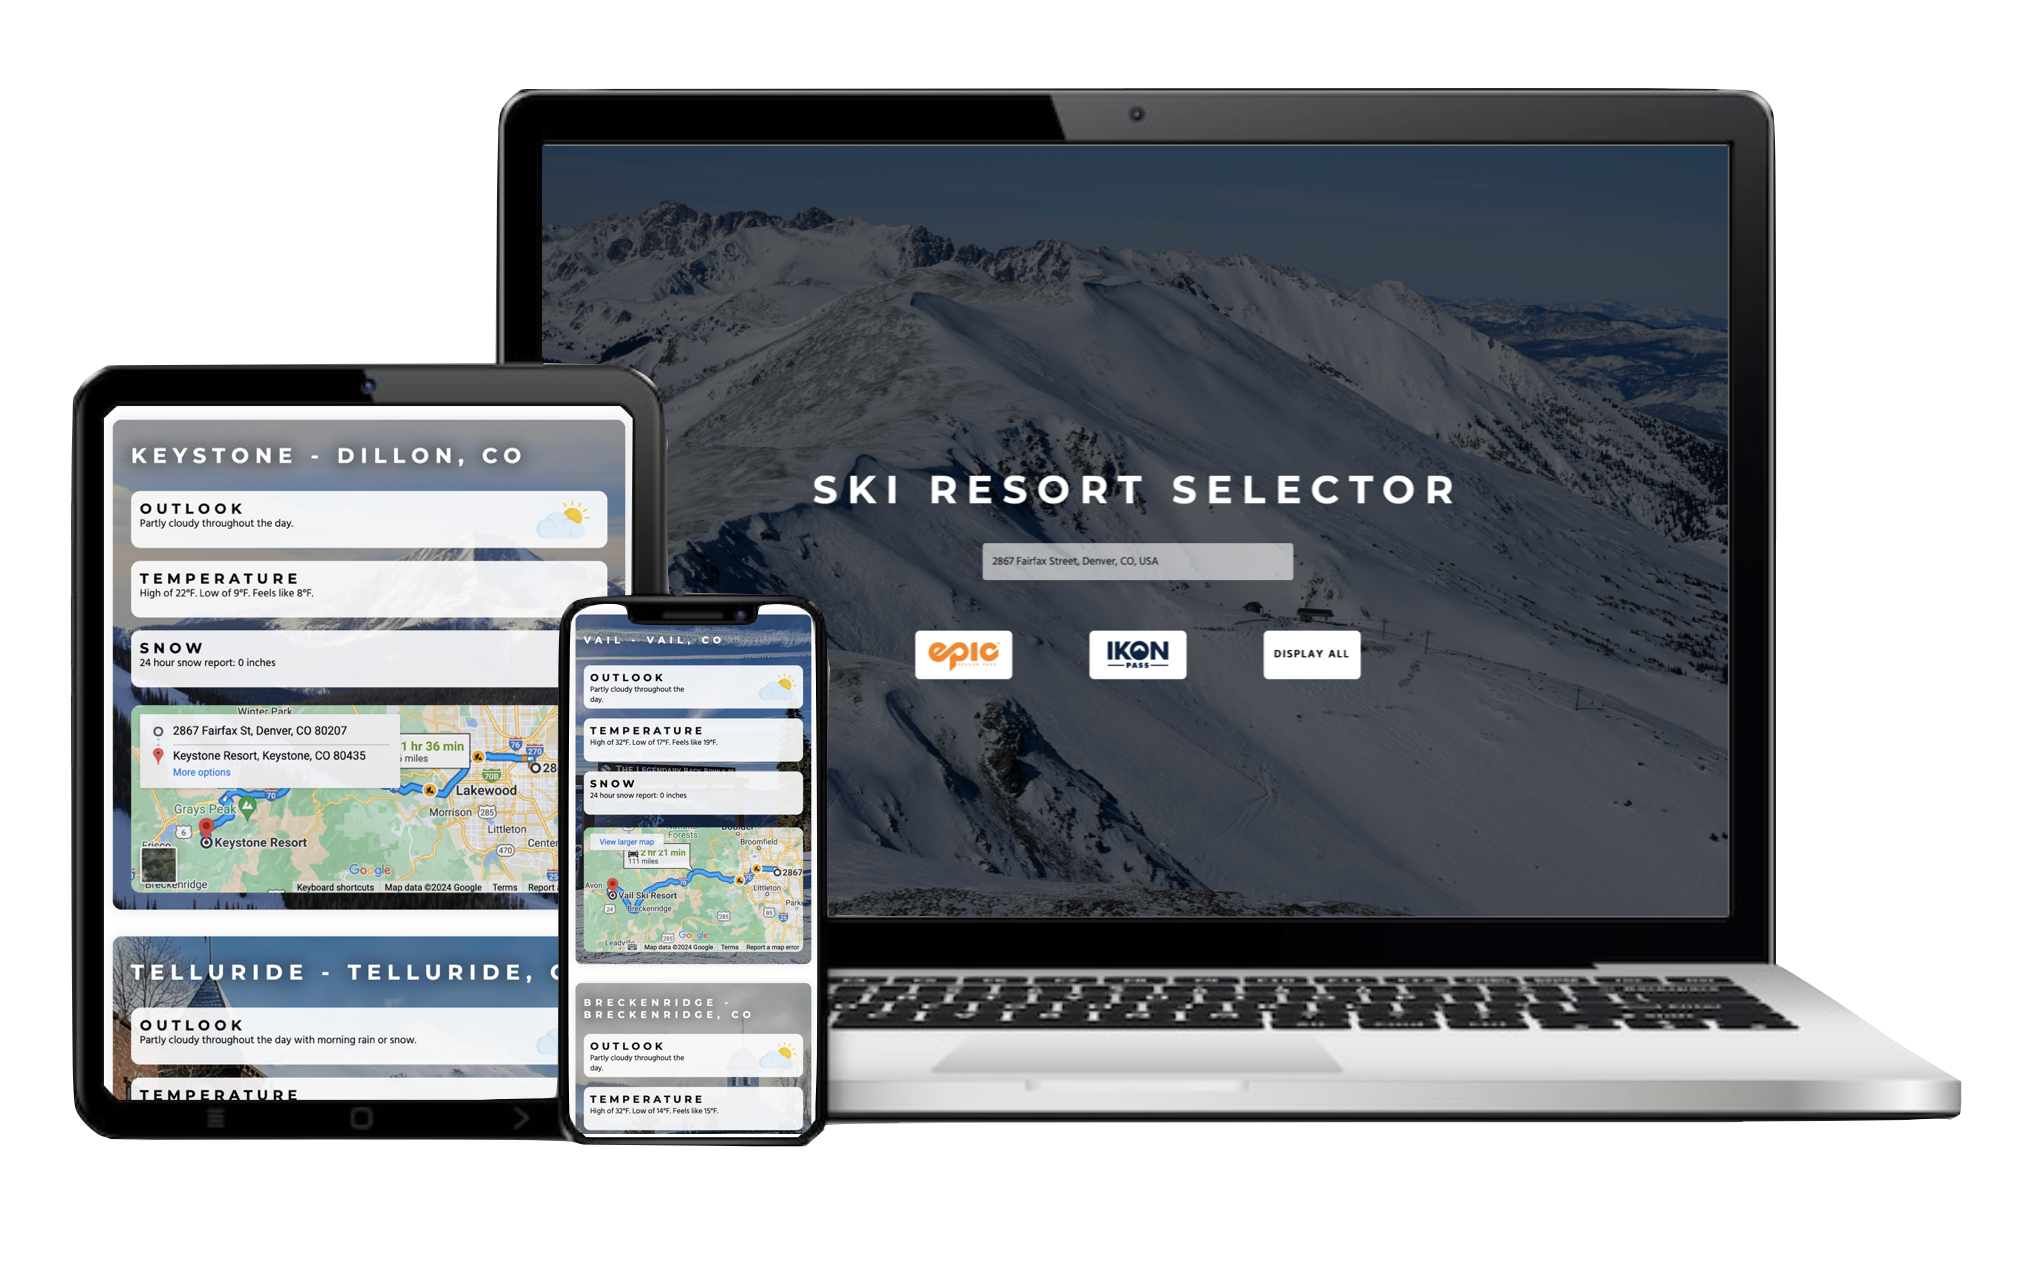
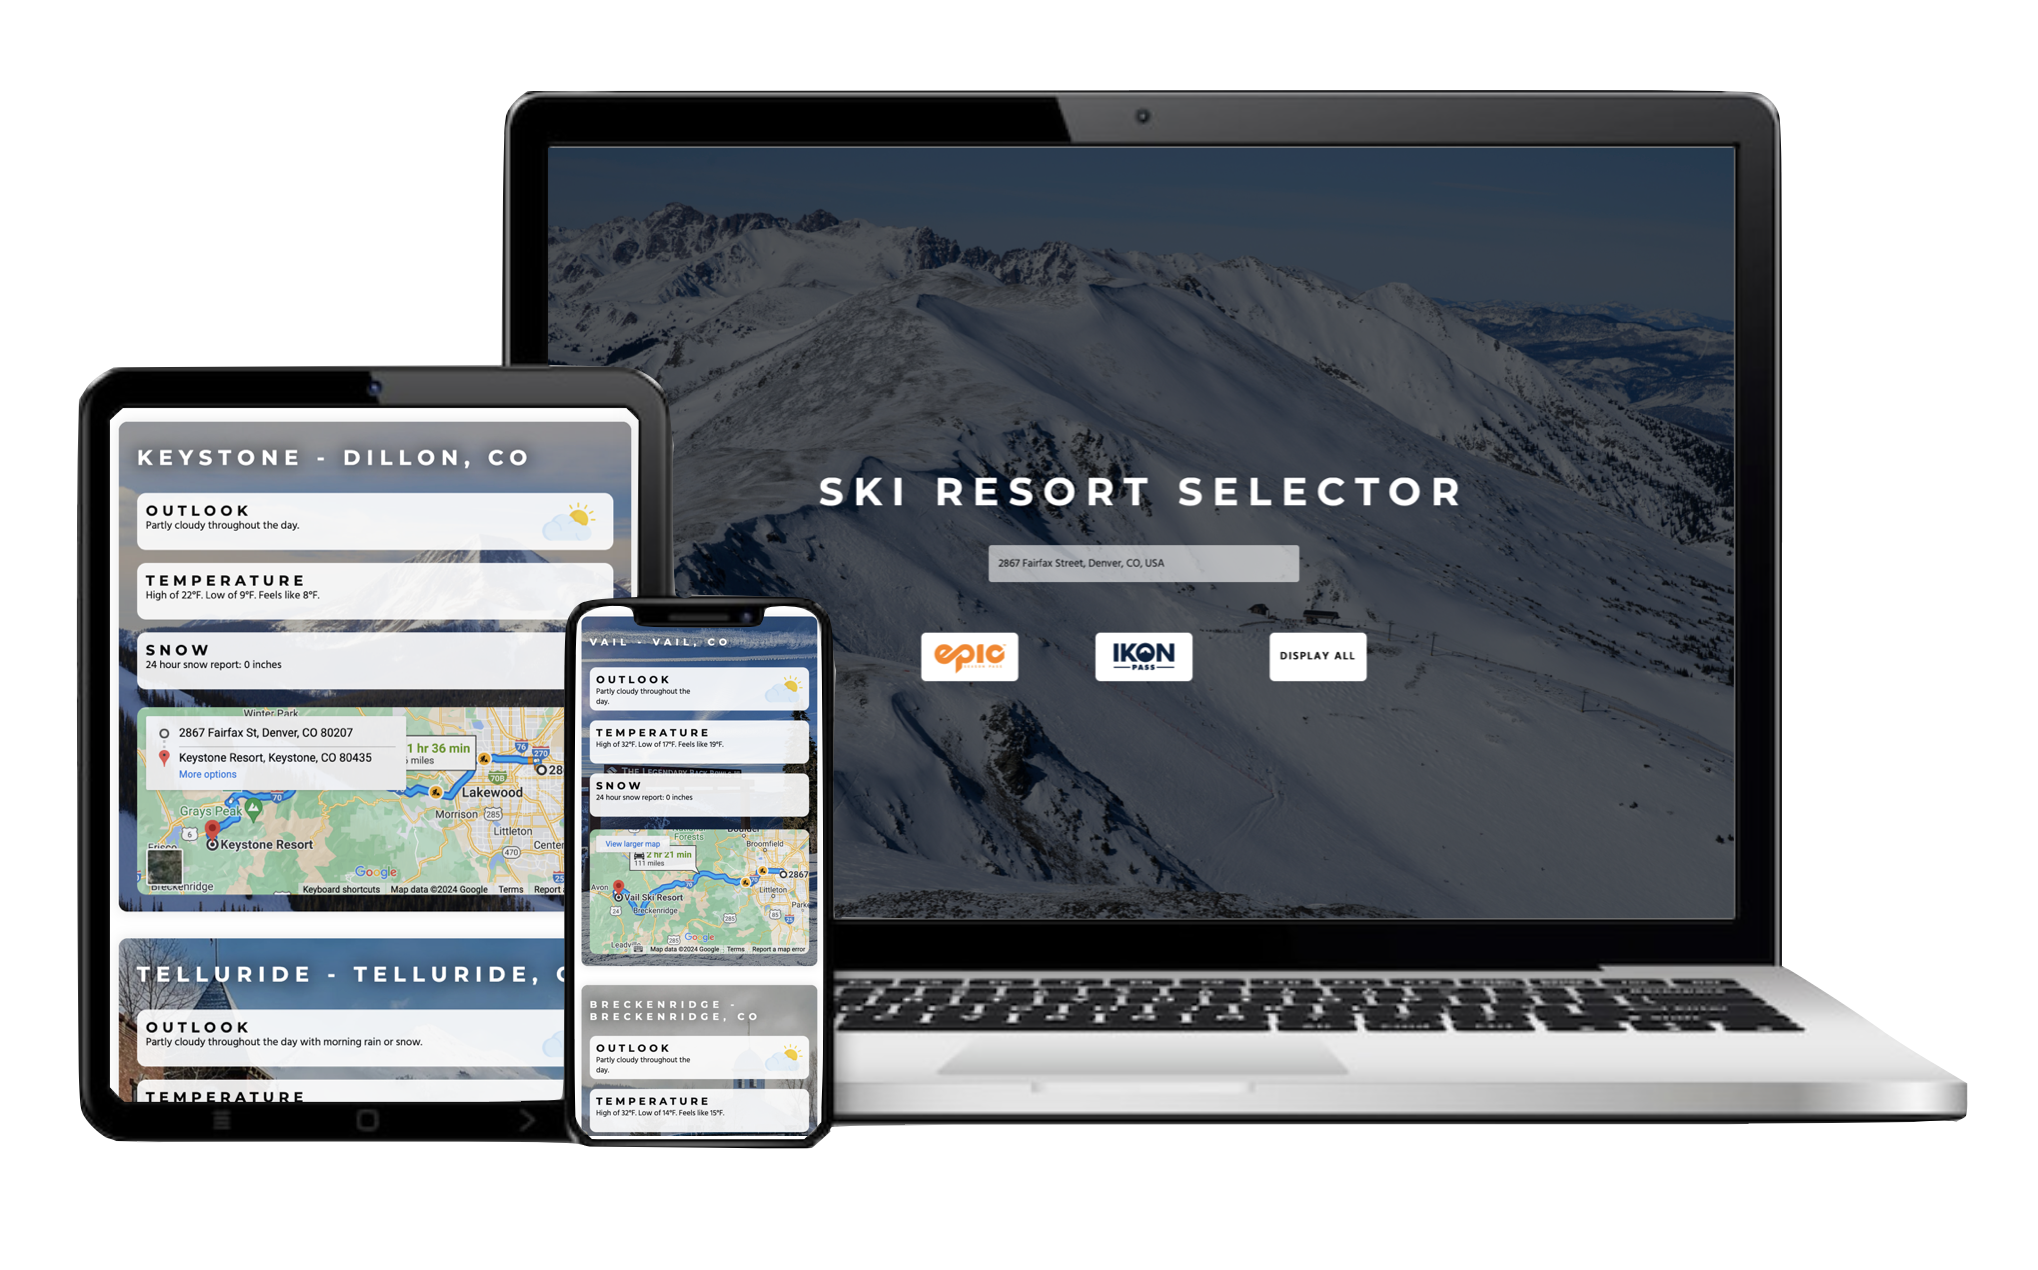
responsive

diff --git a/style.css b/style.css
@@ -21,7 +21,7 @@ h1 {
 }
 
 h2 {
-    font-size: 2em;
+    font-size: 1.4em;
 }
 
 h3 {
@@ -101,7 +101,7 @@ header {
 }
 
 .middle {
-    max-width: 60%;
+    max-width: 70%;
     margin: 0 15px;
 }
 
@@ -170,9 +170,9 @@ button:hover {
 }
 
 .item {
-    min-height: 400px;
+    min-height: 350px;
     width: 20%;
-    margin: 20px;
+    margin: 5px 15px;
 }
 
 .show-img-container {
@@ -192,7 +192,7 @@ button:hover {
 
 .project-description h2 {
     color: #262626;
-    margin: 10px 0;
+    margin: 0px 0 20px 0;
     line-height: 30px;
 }
 
@@ -235,25 +235,63 @@ button:hover {
 }
 
 .socials img {
-    height: 200px;
-    width: 200px;
-    margin: 60px 50px;
+    height: auto;
+    width: 15vw;
+    margin: 30px 6%;
 }
 
-@media all and (min-width: 1200px) {
+@media all and (min-width: 1100px) {
     .item {
-        width: 30%;
+        width: 28%;
     }
  }
 
-@media all and (min-width: 768px) and (max-width: 1200px) {
+@media all and (min-width: 800px) and (max-width: 1100px) {
     .item {
-        width: 45%;
+        width: 42%;
+    }
+
+    .top {
+        font-size: 0.8em;
+    }
+
+    .middle {
+        max-width: 80%;
     }
  }
 
-@media all and (max-width: 768px) {
+@media all and (max-width: 800px) {
     .item {
         width: 90%;
     }
+
+    .top {
+        font-size: 0.8em;
+    }
+
+    header {
+        flex-direction: column;
+        align-items: center;
+        justify-content: center;
+    }
+
+    .img-container {
+        height: 175px;
+        width: 175px;
+        margin: 50px 0 20px 0;
+    }
+
+    .header-text {
+        width: 70%;
+    }
+
+    .middle {
+        max-width: 100%;
+        margin: 0;
+    }
+
+    #resume-button {
+        margin-bottom: 30px;
+    }
+
  }

diff --git a/app.js b/app.js
@@ -4,18 +4,21 @@ let projects = [
         title: 'Arcade Landing Page',
         description: 'The first site I created using vanilla JS, CSS, and HTML.',
         img: 'images/updown.png',
+        link: 'https://up-down-project.netlify.app'
     },
     {
         id: 2,
         title: 'Resort Selector',
         description: 'The second site I created using vanilla JS, CSS, and HTML. I practiced using APIs with this site.',
         img: 'images/resortselector.png',
+        link: 'https://resort-selector-project.netlify.app/'
     },
     {
-        id: 2,
-        title: 'Resort Selector',
-        description: 'The second site I created using vanilla JS, CSS, and HTML. I practiced using APIs with this site.',
-        img: 'images/resortselector.png',
+        id: 1,
+        title: 'Arcade Landing Page',
+        description: 'The first site I created using vanilla JS, CSS, and HTML.',
+        img: 'images/updown.png',
+        link: 'https://up-down-project.netlify.app'
     },
 ]
 
@@ -67,7 +70,7 @@ function displayProjects(obj) {
                 <img src=${each.img}>
             </div>
             <div class="project-description">
-                <h2>${each.title}</h2>
+                <h2><a href=${each.link}>${each.title}</a></h2>
                 <h4>${each.description}</h4>
             </div>
         </div>

diff --git a/index.html b/index.html
@@ -49,7 +49,7 @@
         </div>
         <div class="about-content"> 
             <div class="about-text">
-                <p><strong>Hello!</strong><br><br> My name is Sarah.
+                <p>Hello!<br><br> My name is Sarah.
                     I graduated with a degree in Neuroscience a few years ago from the University of Arizona and immediately began working in pediatric diabetes research.
                     This is where I was first exposed to any sort of programming language in the form of MATLAB. Sadly, the love story was short-lived as MATLAB and I didn't quite get along.
                     I stuck with research and rushed into a doctorate program in the Fall of 2022, where I *very* quickly realized I was unmotivated, uninspired, and unhappy.
